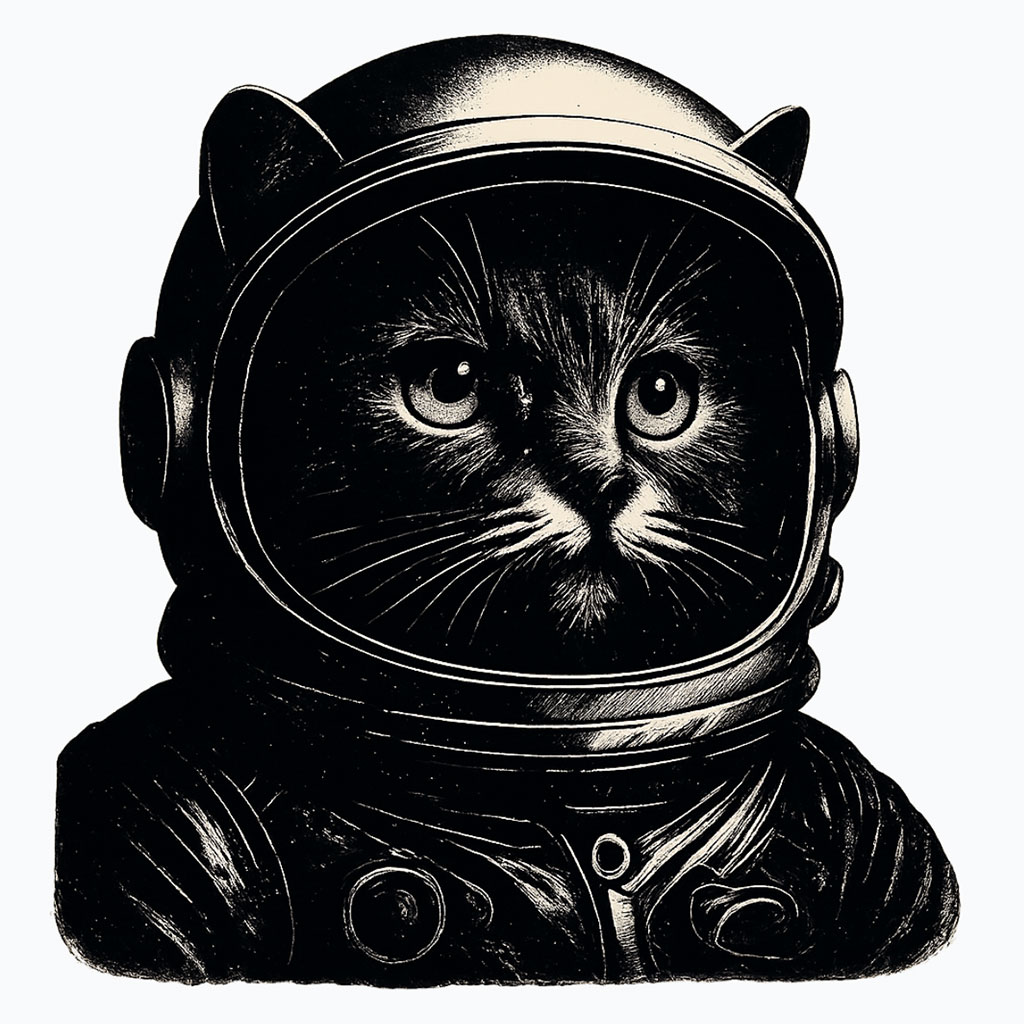
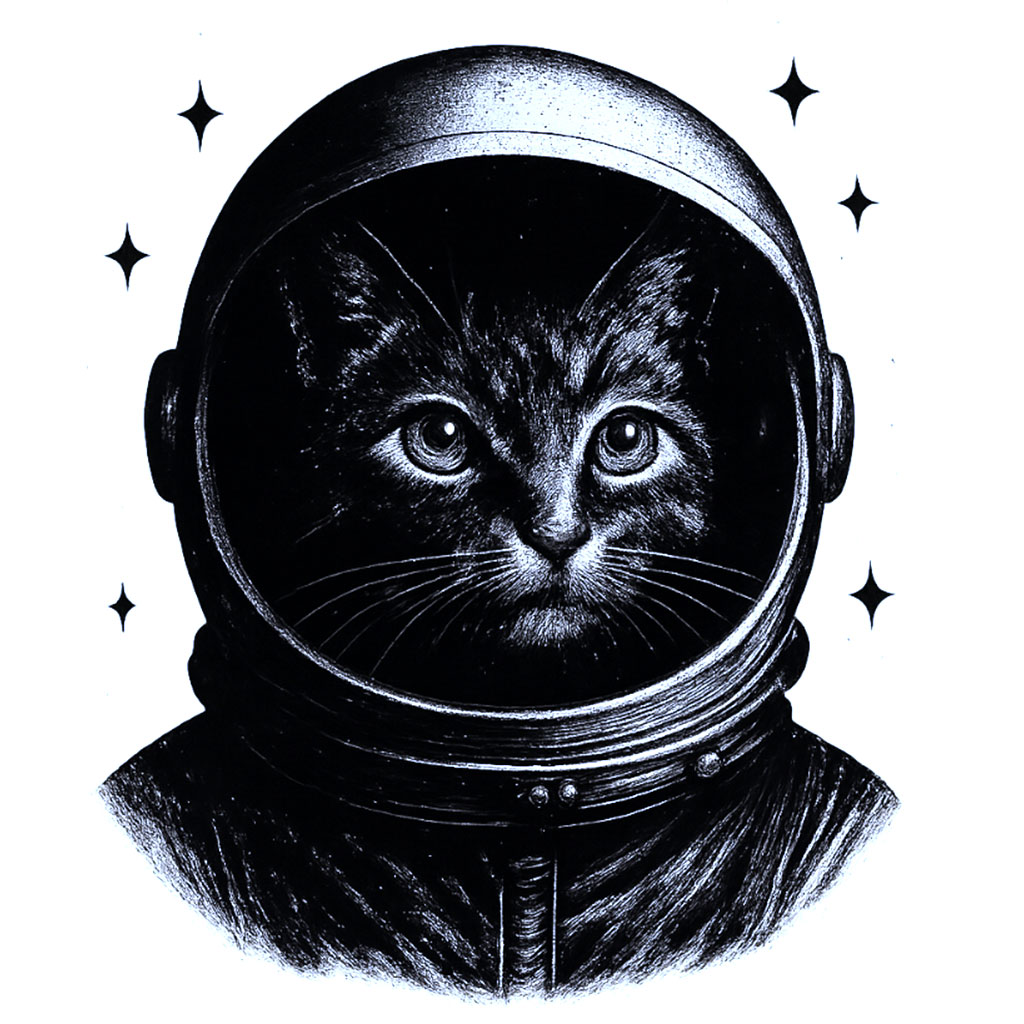
Add Graffiti style and update style prompts
- Add new Graffiti style with lime-green bubble letters prompt
- Add graffiti to style selection UI with style_graffiti.jpg
- Update black-and-white prompt: remove 'dramatic' before lighting
- Update style preview images for black_and_white, grunge, and realistic
- Various prompt refinements in imageGeneration.ts

diff --git a/src/utils/imageGeneration.ts b/src/utils/imageGeneration.ts
@@ -46,7 +46,7 @@ const STYLE_PROMPTS: Record<string, string> = {
   
   realistic: "Photorealistic image of the subject only, highly detailed and lifelike. Sharp focus, professional photography style. clean, minimal background. High contrast and vibrant colors. No t-shirt mockup. Professional quality suitable for direct-to-garment printing.",
   
-  "black-and-white": "Black and white vintage photograph of the subject only. Highly detailed, sharp focus, dramatic lighting with strong shadows. High contrast monochrome, retro aesthetic, centered composition. No t-shirt mockup, just the image itself. Perfect for single-color screen printing. Clean, striking isolated subject.",
+  "black-and-white": "Black and white vintage photograph. Highly detailed, sharp focus, lighting with strong shadows. High contrast monochrome, retro aesthetic, centered composition. No t-shirt mockup, just the image itself. Clean, striking isolated subject.",
 
   "vector-stencil": "High contrast black and white stencil art of the subject only. Bold graphic with strong silhouette. Uses only pure black and white - no grays. Dramatic shadows and highlights. Subject isolated on opposite color background (black on white or white on black). No t-shirt mockup, just the design element itself. Perfect for single-color screen printing.",
   
@@ -59,6 +59,8 @@ const STYLE_PROMPTS: Record<string, string> = {
   grunge: "Edgy grunge t-shirt design. Distressed textures on main graphic element. High contrast - primarily black with accent colors. Raw, rebellious aesthetic. Bold central image with rough edges. Vintage band t-shirt inspired. Works well on black or dark colored shirts. Strong visual impact.",
   
   "y2k-chrome": "Oversized slogan in chunky chrome liquid bubble letters, with dropping liquid, holographic pink-lilac-cyan gradient, tiny star sparkles, soft drop shadow, white background, flat vector, 1999 desktop aesthetic.",
+  
+  graffiti: "One-word slogan in lime-green graffiti bubble letters, heavy black outline, red paint-splat drip shape behind, clean white background.",
 };
 
 // T-shirt design technical specifications

diff --git a/src/components/StyleSelection.tsx b/src/components/StyleSelection.tsx
@@ -10,6 +10,7 @@ import StyleGrunge from '../assets/style_grunge.jpg';
 import StyleRealistic from '../assets/style_realistic.jpg';
 import StyleStencil from '../assets/style_stencil.jpg';
 import StyleY2KChrome from '../assets/style_y2k-chrome.jpg';
+import StyleGraffiti from '../assets/style_graffiti.jpg';
 
 interface Style {
   id: string;
@@ -96,13 +97,12 @@ export const StyleSelection: React.FC<StyleSelectionProps> = ({
       description: 'Monochrome line art illustration',
       previewUrl: StyleY2KChrome,
     },
-    // Temporarily commented out - keeping for future use
-    // {
-    //   id: 'graffiti',
-    //   name: 'Graffiti',
-    //   description: 'Bold street art vibes',
-    //   previewUrl: StyleGraffiti,
-    // },
+    {
+      id: 'graffiti',
+      name: 'Graffiti',
+      description: 'Bold street art vibes',
+      previewUrl: StyleGraffiti,
+    },
   ];
 
   return (
